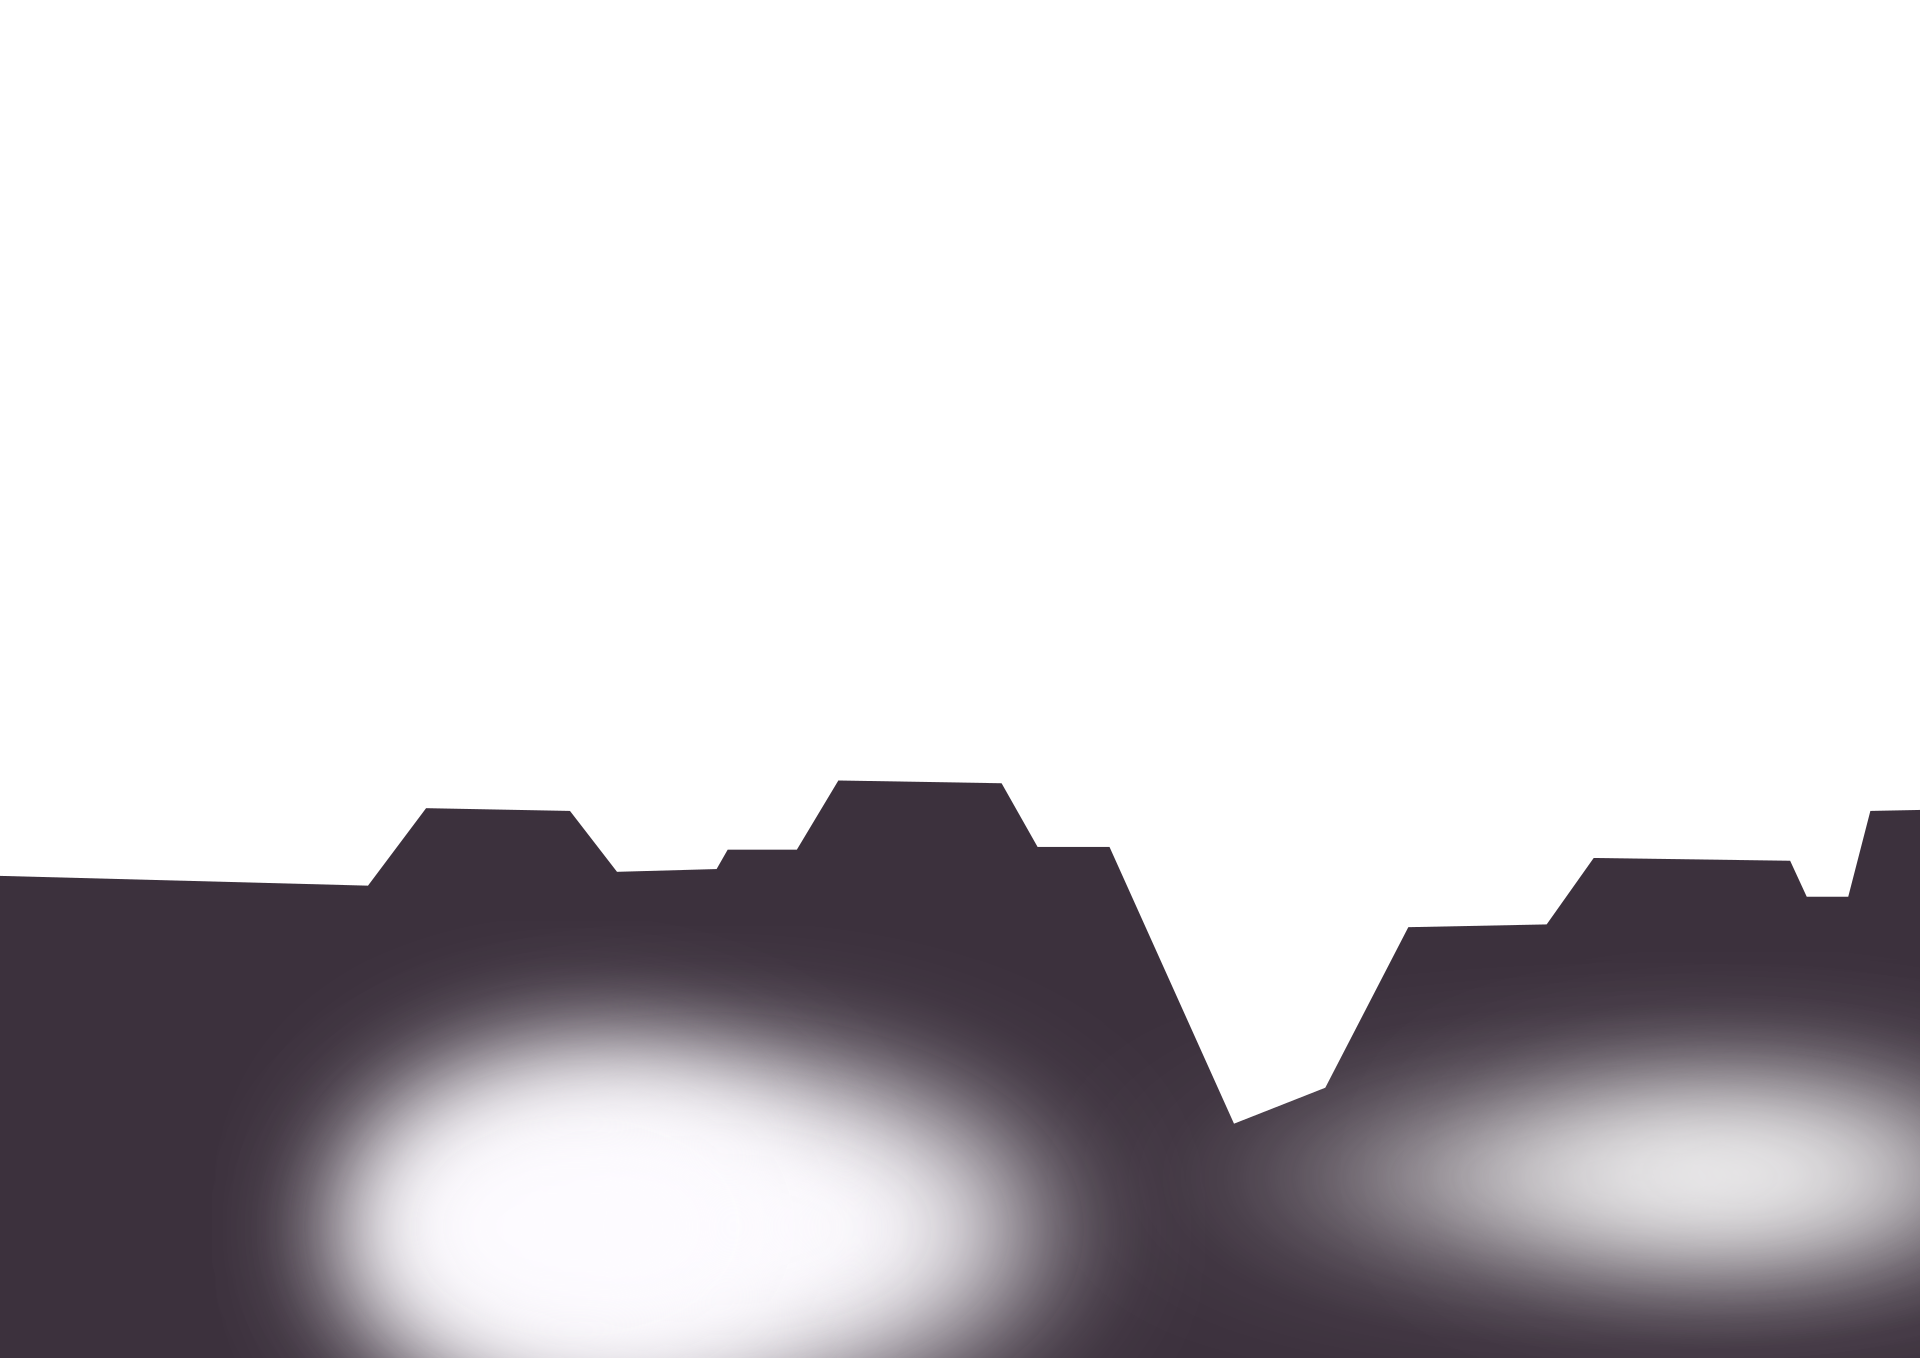
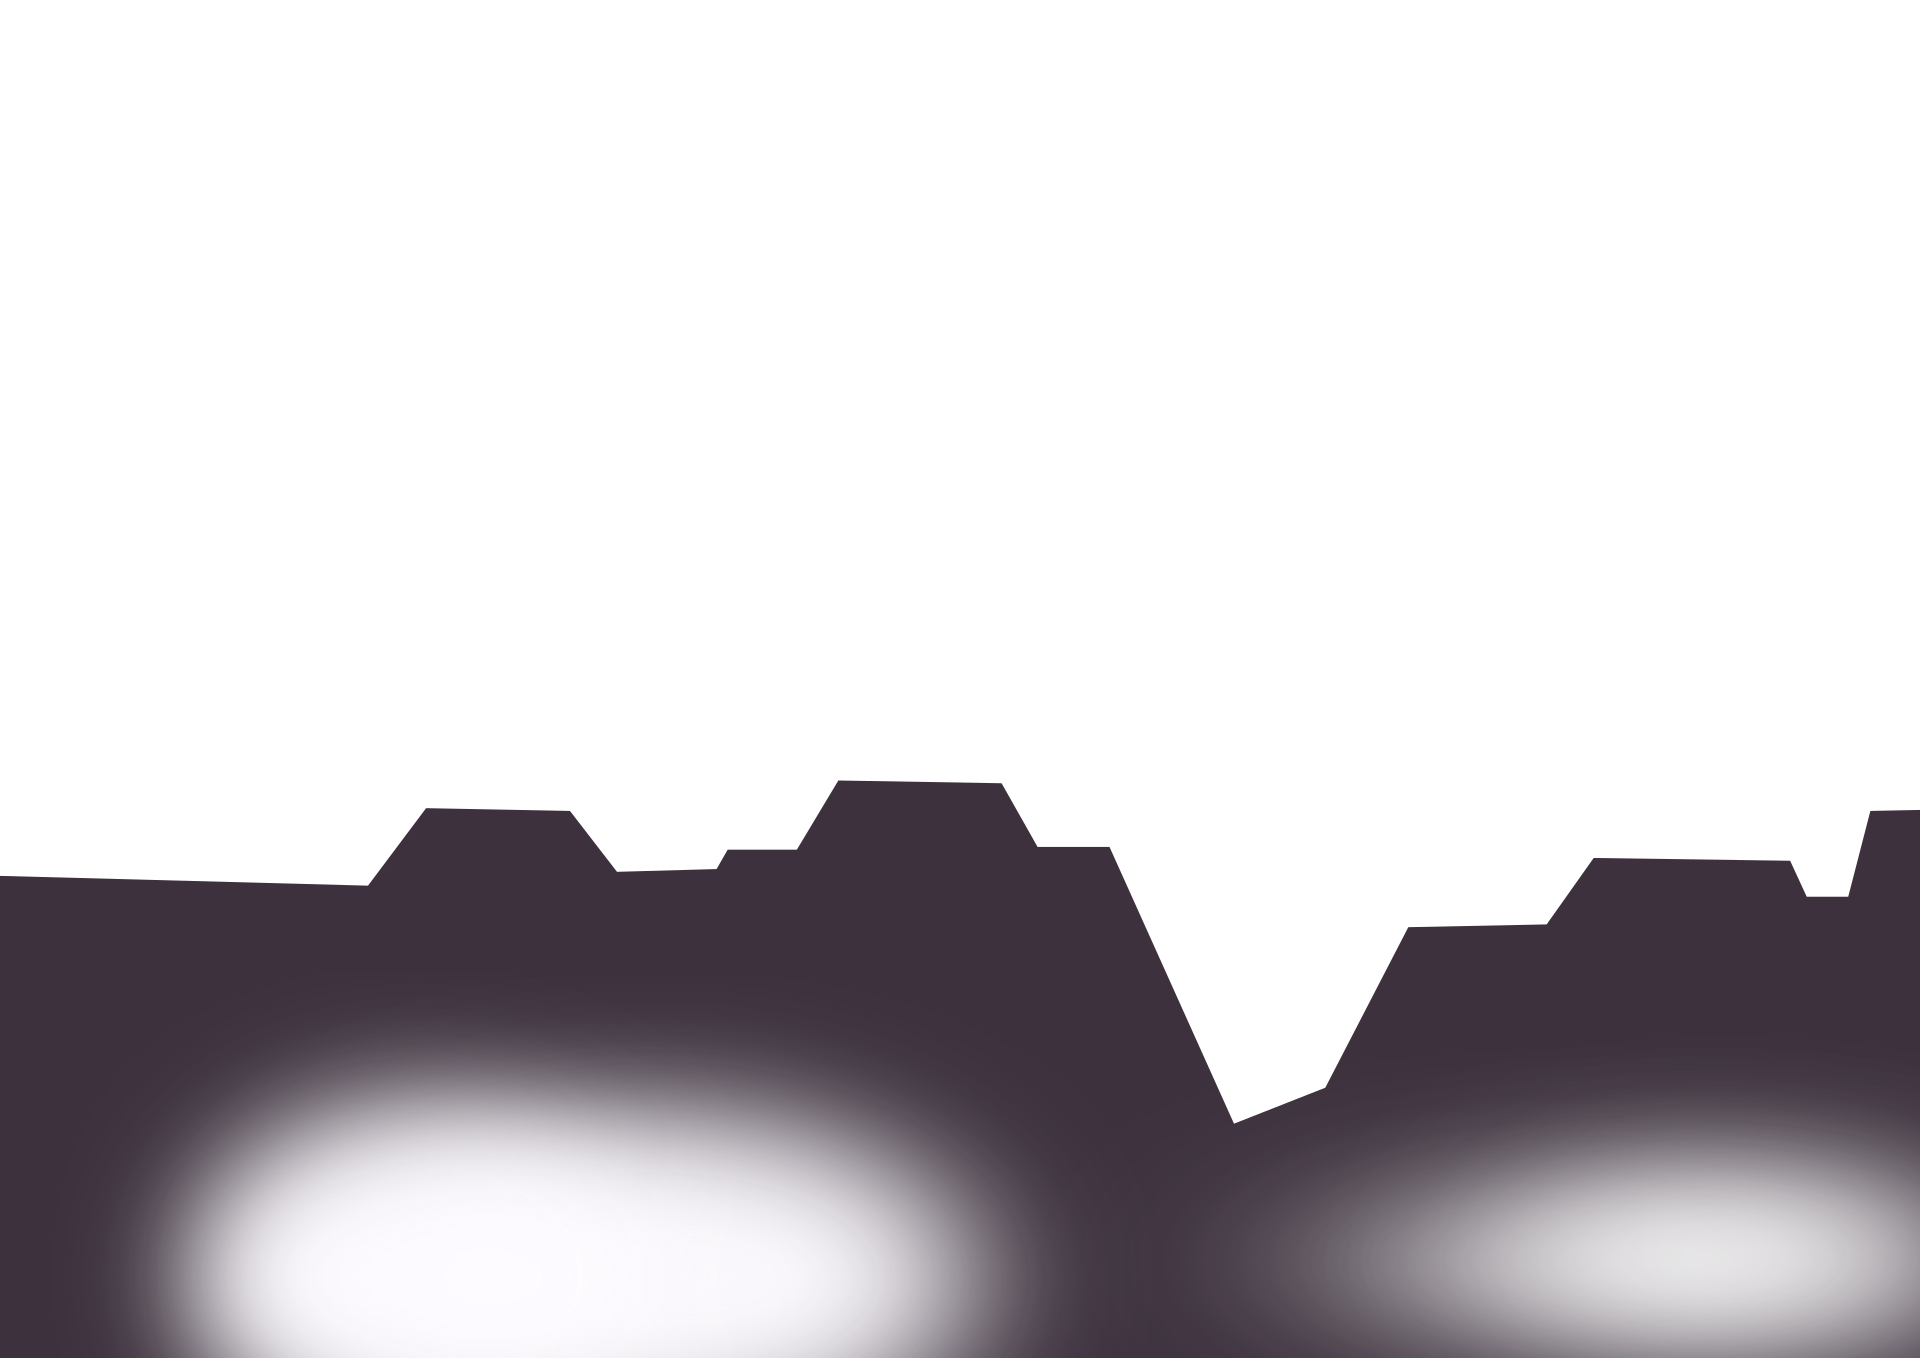
hero background updates

Changed region(s): [[0.0625, 0.7113, 0.5938, 1.0], [0.6562, 0.7423, 1.0, 1.0], [0.4062, 0.9897, 0.4375, 1.0]]

diff --git a/src/components/Homepage/HomepageTitle/HomepageTitle.tsx b/src/components/Homepage/HomepageTitle/HomepageTitle.tsx
@@ -13,6 +13,7 @@ function HomepageTitle() {
           type: 'spring',
           stiffness: 100,
           damping: 20,
+          delay: 0.8,
         }}
       >
         <p className={styles.Title}>

diff --git a/src/components/Homepage/HeroBackground/HeroBackground.module.css b/src/components/Homepage/HeroBackground/HeroBackground.module.css
@@ -27,7 +27,7 @@
 .foreground {
   object-fit: cover;
   position: absolute;
-  height: auto;
-  width: 100%;
+  height: 100vh;
+  width: 100vw;
   z-index: -1;
 }
